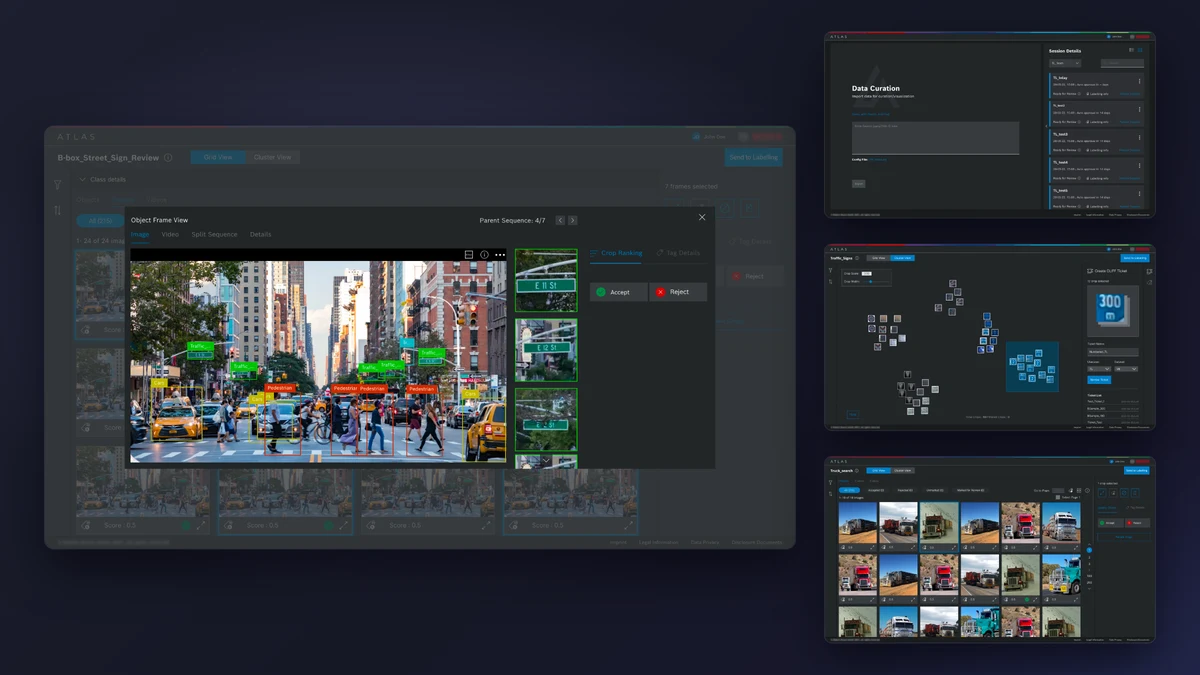
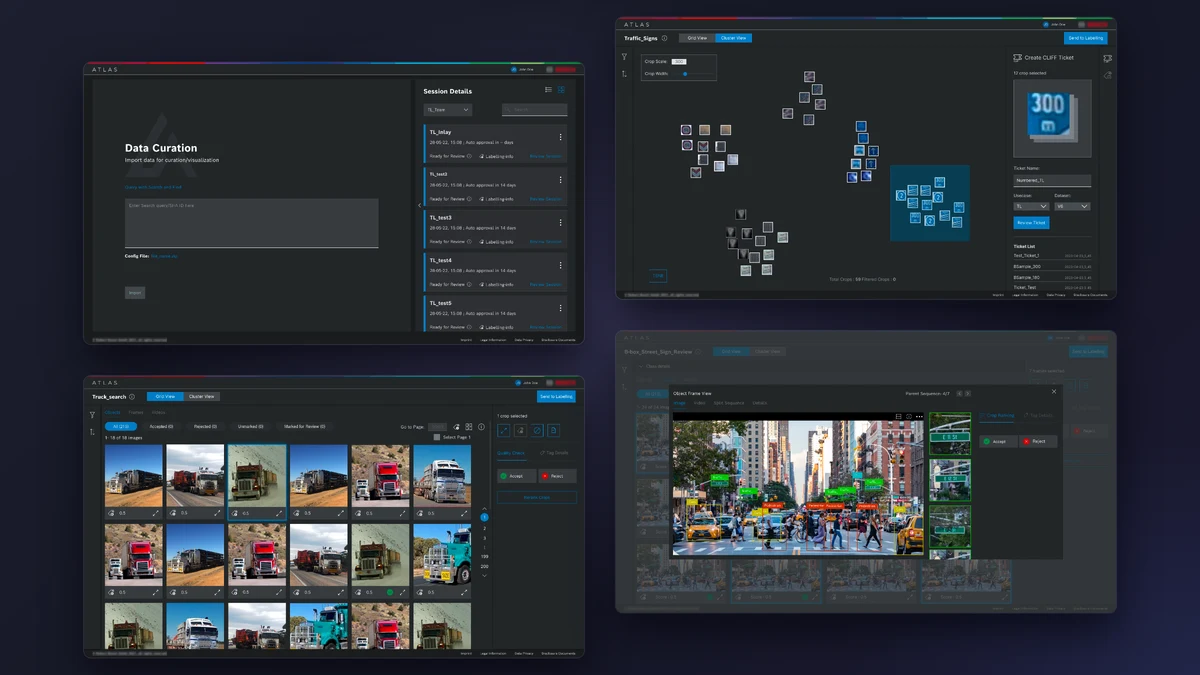
ATLAS cover: four screens at equal size in a staggered grid
Claude-Session: https://claude.ai/code/session_01BUxMADTYnMy5PmcPR4NAT9

diff --git a/projects/bosch-image-data-curation/atlas-image-optimisation/index.html b/projects/bosch-image-data-curation/atlas-image-optimisation/index.html
@@ -79,10 +79,10 @@
     <div><dt class="eyebrow text-mist-500">Users</dt><dd class="mt-2">Labelling experts, model developers, data analysts</dd></div>
   </dl>
 
-  <!-- Cover: four ATLAS screens supplied by Ojasv 2026-11-22. Object frame view large, then session list, cluster view and grid view stacked in workflow order. Source layout: /mnt/project-files/bosch/atlas-cover-source.html -->
+  <!-- Cover: four ATLAS screens supplied by Ojasv 2026-11-22. Equal-size staggered 2x2 in workflow order: session, cluster view, grid view, object frame view. Source layout: /mnt/project-files/bosch/atlas-cover-source.html -->
   <figure class="mt-16 lg:mt-24">
     <a href="../../../assets/img/projects/bosch-image-data-curation/atlas/cover-2400.webp" class="block cursor-zoom-in overflow-hidden rounded-lg bg-surface ring-1 ring-mist-800" aria-label="View larger: four ATLAS screens">
-      <img src="../../../assets/img/projects/bosch-image-data-curation/atlas/cover-1200.webp" srcset="../../../assets/img/projects/bosch-image-data-curation/atlas/cover-1200.webp 1200w, ../../../assets/img/projects/bosch-image-data-curation/atlas/cover-2400.webp 2400w" sizes="(min-width: 100rem) 100rem, 100vw" width="2400" height="1350" alt="Four ATLAS screens. Large: the object frame view of a street scene with labelled boxes for traffic signs, cars and pedestrians, and street sign crops to accept or reject. Beside it: the Data Curation page where a session is imported, a cluster view of traffic sign crops with a CLIFF ticket being created, and a grid view of truck crops" class="h-auto w-full">
+      <img src="../../../assets/img/projects/bosch-image-data-curation/atlas/cover-1200.webp" srcset="../../../assets/img/projects/bosch-image-data-curation/atlas/cover-1200.webp 1200w, ../../../assets/img/projects/bosch-image-data-curation/atlas/cover-2400.webp 2400w" sizes="(min-width: 100rem) 100rem, 100vw" width="2400" height="1350" alt="Four ATLAS screens of equal size: the Data Curation page where a session is imported, a cluster view of traffic sign crops with a CLIFF ticket being created, a grid view of truck crops, and the object frame view of a street scene with labelled boxes for traffic signs, cars and pedestrians" class="h-auto w-full">
     </a>
     <figcaption class="mt-3 text-xs text-mist-500">ATLAS: import a session, see its crops as clusters, accept or reject them in the grid, and check each one in its original frame.</figcaption>
   </figure>
